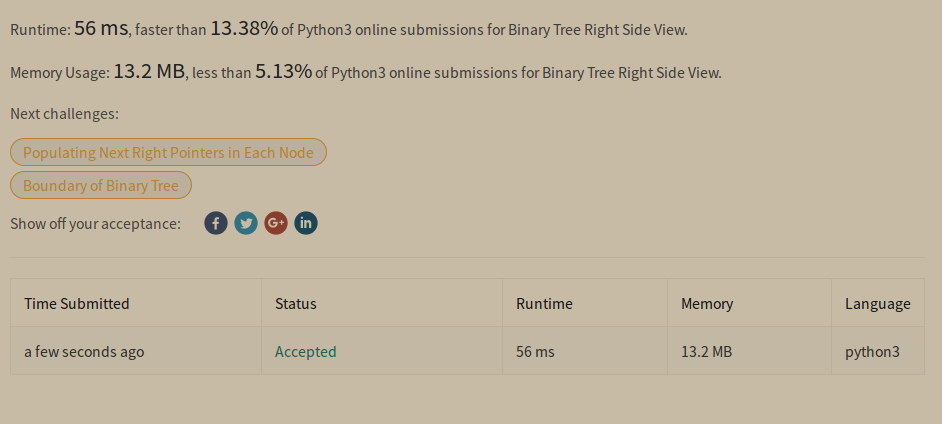
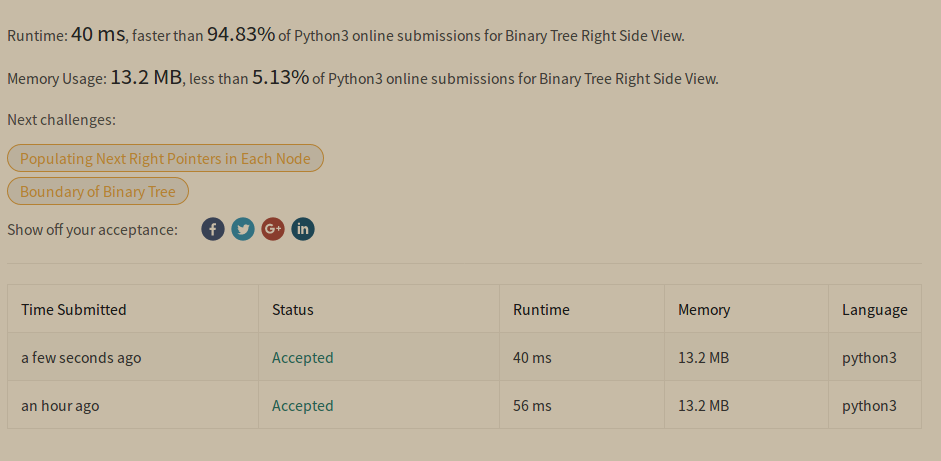
Binary Tree Right Side View(Problems 199 - AC) :light_rail:

diff --git a/leetcode/199/test.py b/leetcode/199/test.py
@@ -40,7 +40,7 @@ class TestSolution(unittest.TestCase):
         root = self.create_binary_tree(array)
         self.assertEqual(s.rightSideView(root), [])
 
-        # The number of leaves of left subtree is equal to right subtree
+        # The level(height) of left subtree is equal to right subtree
         array = [1, 2, 3, None, 5, None, 4]
         root = self.create_binary_tree(array)
         self.assertEqual(s.rightSideView(root), [1, 3, 4])
@@ -50,8 +50,8 @@ class TestSolution(unittest.TestCase):
         root = self.create_binary_tree(array)
         self.assertEqual(s.rightSideView(root), [1, 2, 4])
 
-        # The number of leaves of left subtree is greater than the number
-        # of right subtree's leaves
+        # The level(height) of left subtree is greater than the number
+        # of right subtree's level(height).
         array = [1, 2, 3, 4, 5, 6, 7, 8, 9, 10]
         root = self.create_binary_tree(array)
         self.assertEqual(s.rightSideView(root), [1, 3, 7, 10])
@@ -63,14 +63,14 @@ class TestSolution(unittest.TestCase):
         self.assertEqual(s.rightSideView(root), [1, 3, 7])
         [1, 2, 3, None, 5, None, 4]
 
-        # The number of leaves of left subtree is greater than the number
-        # of right subtree's leaves
+        # The level(height) of left subtree is greater than the number
+        # of right subtree's level(height).
         array = [1, 3, 2, None, 3, None, 4, None, 6]
         root = self.create_binary_tree(array)
         self.assertEqual(s.rightSideView(root), [1, 2, 4, 6])
 
-        # The number of leaves of left subtree is less than the number
-        # of right subtree's leaves
+        # The level(height) of left subtree is less than the number
+        # of right subtree's level(height).
         array = [1, 3, 2, None, 3, None, 4, None, None, 6]
         root = self.create_binary_tree(array)
         self.assertEqual(s.rightSideView(root), [1, 2, 4, 6])

diff --git a/leetcode/199/binary_tree_right_side_view.py b/leetcode/199/binary_tree_right_side_view.py
@@ -39,7 +39,5 @@ class Solution:
         level += 1
         if len(result) < level:
             result.append(node.val)
-        if not node.right:
-            self._helper(node.left, result, level)
         self._helper(node.right, result, level)
         self._helper(node.left, result, level)

diff --git a/leetcode/readme.md b/leetcode/readme.md
@@ -106,4 +106,4 @@ Python3
 |102|18|4Sum|Py3|Medium|0.1355|
 |103|111|Minimum Depth of Binary Tree|Py3|Easy|0.2434|
 |104|102|Binary Tree Level Order Traversal|Py3|Medium|0.7687|
-|105|199|Binary Tree Right Side View|Py3|Medium|0.1338|
+|105|199|Binary Tree Right Side View|Py3|Medium|0.9483|
